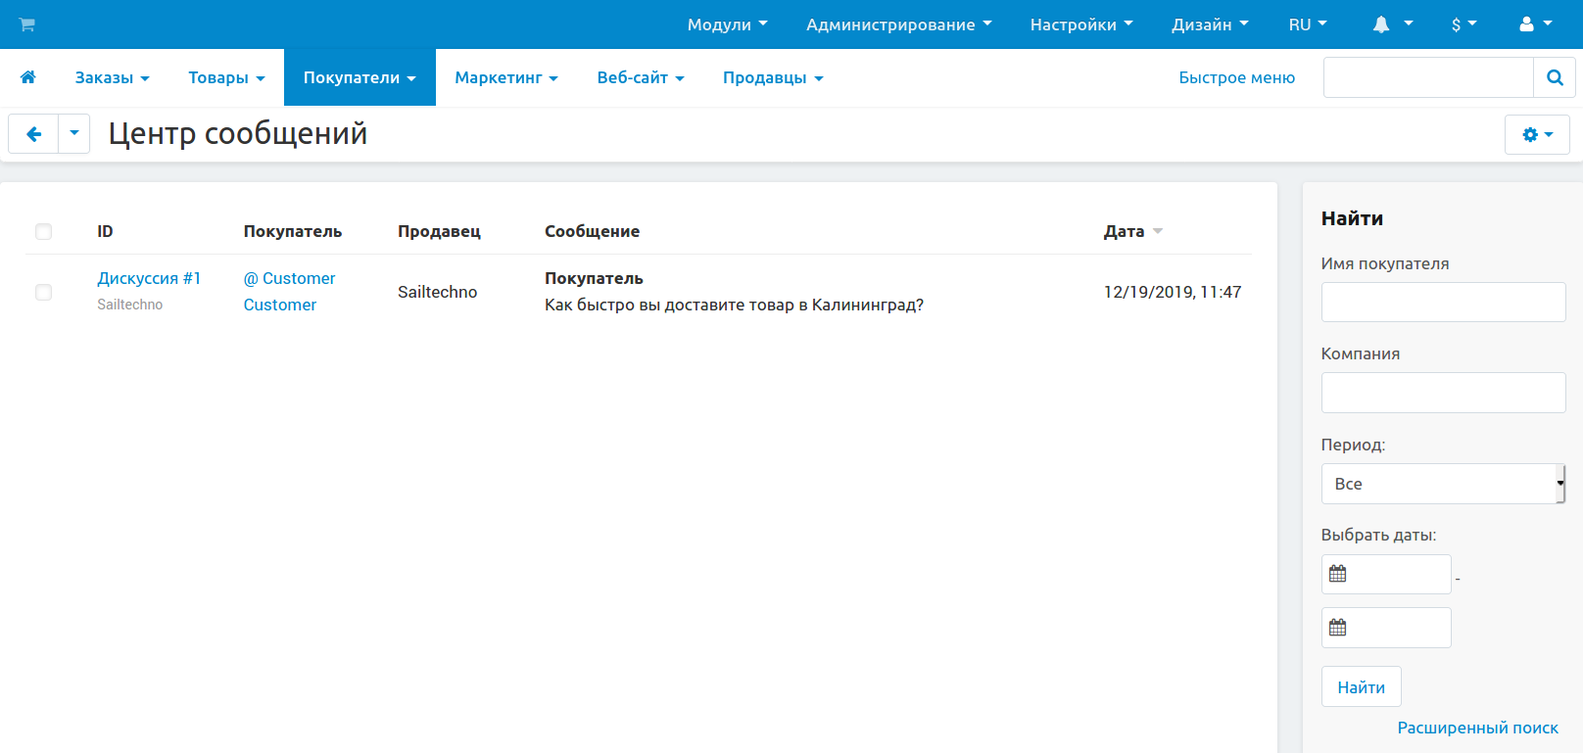
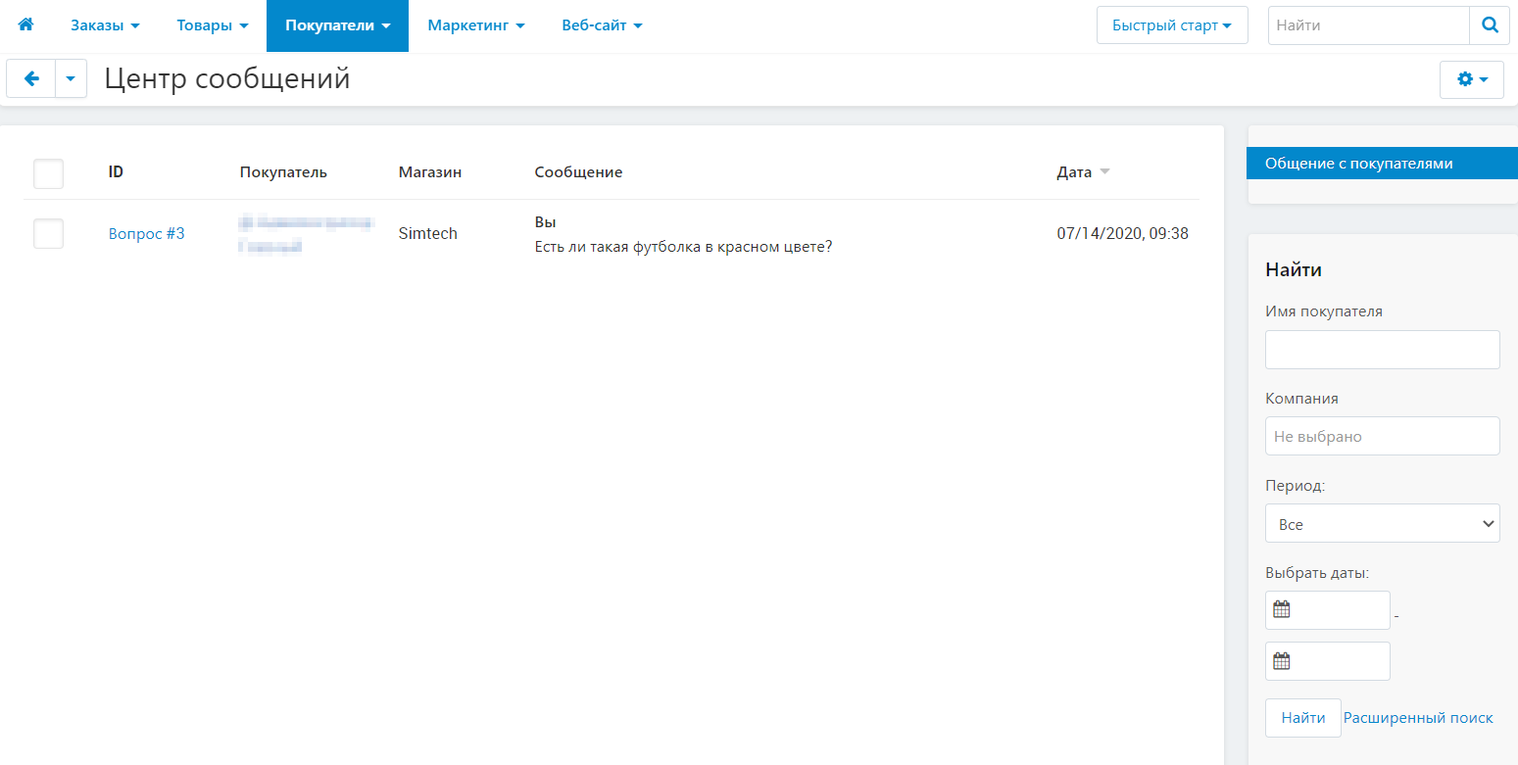
Message center ru

diff --git a/ru/user_guide/addons/customer_to_vendor_communication/set_up_communication.rst b/ru/user_guide/addons/customer_to_vendor_communication/set_up_communication.rst
@@ -1,27 +1,98 @@
-*******************************************************
-Как дать покупателям возможность задать вопрос о товаре
-*******************************************************
+**************************************
+Как настроить модуль “Центр сообщений”
+**************************************
 
-#. Убедитесь,что модуль **"Чат с продавцом"** :doc:`установлен и включен. </user_guide/addons/1manage_addons>`
+.. contents::
+    :local:
 
-   .. fancybox:: img/install_ask_seller_a_question.png
-       :alt: Найдите и установите модуль "Чат с продавцом".
+Основные настройки модуля
+=========================
+
+#. Установите модуль :doc:`/user_guide/addons/customer_to_vendor_communication` так же, :doc:`как и любой другой модуль </user_guide/addons/1manage_addons>`.
 
 #. Нажмите на название модуля, чтобы открыть его настройки:
+   * **Общие**:
 
-   * **Отображать кнопку чата на странице товара** — если включить эту настройку, то кнопка "Задать вопрос" появится на страницах товаров. В CS-Cart сообщения будут отправляться администраторам, а в CS-Cart для маркетплейсов — продавцам.
+     * **Общение покупателей с продавцами** — поставьте галочку, если хотите дать продавцам возможность напрямую общаться со своими покупателями.
+	 
+     * **Общение продавцов с администраторами**— поставьте галочку, если хотите дать продавцам возможность связываться с вами.
+	 
+   * **Для покупателей**:
 
-   * **Отображать кнопку чата в меню "Сообщения"** (*только в CS-Cart*) — если включить эту настройку, то кнопка "Задать вопрос" появится на странице **Мой профиль → Сообщения** на витрине.
+     * **Отображать кнопку чата на странице товара** — поставьте галочку, если хотите, чтобы клиенты могли отправлять вам сообщения со страниц товаров.
+	 
+     * **Отображать кнопку чата на странице микромагазина продавца** — если включить эту настройку, то кнопка “Задать вопрос” появится на странице микромагазина продавца.
+	 
+     .. important::
+	 
+	     Эта настройка влияет только на продавцов, у которых микромагазин включен в :doc:`тарифном плане </users/vendors/manage_vendor_plans.html>`.
+		 
+Как ограничить общение продавцов с покупателями и администратором?
+==================================================================
 
-   * **Отображать кнопку чата на странице микромагазина продавца** (*только в CS-Cart для маркетплейсов*) — если включить эту настройку, то кнопка "Задать вопрос" появится на странице микромагазина продавца.
+Использование модуля "Центр сообщений" в сочетании с модулем :doc:`/user_guide/addons/vendor_privileges` позволяет владельцу маркетплейса решить, кому, как и с кем общаться.
 
-     .. note::
+.. important::
 
-         Эта настройка влияет только на продавцов, у которых микромагазин включен в :doc:`тарифном плане </user_guide/users/vendors/manage_vendor_plans>`.
+    Модуль "Привилегии продавцов" доступен только для пользователей Multi-Vendor Plus и Multi-Vendor Ultimate.
+	
+Как сделать так, чтобы с покупателями общались только вы?
+---------------------------------------------------------
 
-#. Когда вы настроите модуль, нажмите "Сохранить". После этого вы увидите кнопки "Задать вопрос" на тех страницах, которые вы указали в настройках модуля.
+Предположим, вы хотите, чтобы ваши продавцы могли только просматривать сообщения от покупателей, но отвечать им могли только вы. Чтобы это сделать:
 
-   .. fancybox:: img/ask_a_question.png
-       :alt: Кнопка "Задать вопрос" на витрине.
+#. Откройте страницу **Покупатели → Группы пользователей**.
 
-#. (опционально) В меню **Администрирование → Уведомления** укажите, кто и какие уведомления будет получать.
+#. Щелкните на название группы пользователей **Продавец**.
+
+#. В разделе **Администрирование** напротив поля **Центр сообщений: общение покупателей с продавцами** выберите **Только просмотр**. Если вы выберете вариант **Нет доступа**, то продавцы не смогут даже просматривать сообщения от покупателей.
+
+#. Нажмите **Сохранить**.
+
+   .. fancebox:: img/vendor_priviledges_customers.png
+       :alt: Ограничение продавцам доступа к переписке с покупателями
+
+Как сделать так, чтобы продавцы не могли вам отвечать?
+------------------------------------------------------
+
+Если вы хотите использовать модуль “Центр сообщений” исключительно, как инструмент для анонсов, но не хотите, чтобы продавцы могли отвечать на ваши сообщения:
+
+#. Откройте страницу **Покупатели → Группы пользователей**.
+
+#. Щелкните на название группы пользователей **Продавец**.
+
+#. В разделе **Администрирование** напротив поля **Центр сообщений: общение с администратором** выберите **Только просмотр**. Если вы выберете вариант **Нет доступа**, то продавцы перестанут видеть ваши сообщения.
+
+#. Нажмите **Сохранить**.
+
+   .. fancybox:: img/vendor_priviledges_administration.png
+       :alt: Ограничение продавцам доступа к переписке с администратором
+
+Как установить ограничения для конкретных продавцов?
+----------------------------------------------------
+
+Допустим, вы хотите отключить возможность отвечать на сообщения или вовсе запретить их просмотр не для всех продавцов, а только для конкретных продавцов:
+
+#. Откройте страницу **Покупатели → Группы пользователей**.
+
+#. Создайте новую группу и установите ее тип.
+
+   .. fancybox:: img/add_group.png
+       :alt: Добавление новой группы пользователей
+
+#. В настройках группы напротив полей **Центр сообщений: общение покупателей с продавцами** и **Центр сообщений: общение с администратором** установите необходимые вам настройки.
+
+#. Откройте страницу **Продавцы → Продавцы**.
+
+#. Выберите конкретного продавца, которому хотите установить ограничения, и щелкните по его имени.
+
+#. Откроются настройки продавца. В **Меню** справа выберите **Просмотреть пользователей продавца**.
+
+#. В открывшемся окне нажмите на имя пользователя, затем перейдите на вкладку **Группы пользователей**.
+
+#. Включите только ту группу, в которой планируете установить ограничения.
+
+#. Нажмите **Сохранить изменения**.
+
+   .. fancybox:: img/choose_group.png
+       :alt: Выбор группы пользователей для пользователей продавца

diff --git a/ru/user_guide/addons/customer_to_vendor_communication/index.rst b/ru/user_guide/addons/customer_to_vendor_communication/index.rst
@@ -1,23 +1,47 @@
-***************
-Чат с продавцом
-***************
+*****************
+“Центр сообщений”
+*****************
 
-Модуль **"Чат с продавцом"** позволяет покупателю  прямо с витрины отправить сообщение администраторам (в CS-Cart) или администраторам продавца (в CS-Cart для маркетплейсов).
+Модуль “Центр сообщений” поможет наладить общение между участниками продаж в CS-Cart. Это необходимое решение, если вы хотите дать покупателям возможность:
 
-* Покупатель входит в учётную запись и начинает общение, нажав на кнопку "Задать вопрос".
+* задать вопрос о товаре;
 
-* Администраторы видят сообщение в панели администратора и могут ответить на него. Ответ сохраняется вместе с сообщением в одной цепочке.
+* общаться с вами или с вашими продавцами (если у вас маркетплейс). 
 
-* В зависимости от настроек в меню **Администрирование → Уведомления**, покупатели, администраторы и продавцы получают уведомления о новых сообщениях.
+Также модуль поможет наладить общение администрации с продавцами на маркетплейсе.
 
-  .. note::
+.. contents::
+    :local:
 
-      Уведомления по email будут отправляться, только если вы используете :doc:`новые шаблоны email-уведомлений </user_guide/look_and_feel/email_templates/enable_email_editor>`.
+Общение с покупателями
+======================
 
-* Покупатель может войти в учётную запись, увидеть на витрине историю сообщений и продолжить общение.
+Модуль “Центр сообщений” предоставляет продавцам и владельцам маркетплейсов возможность своевременно реагировать на запросы покупателей. на странице **Покупатели → Центр сообщений** продавцы или владелец маркетплейса могут:
+
+* просматривать сообщения покупателей;
+
+* отвечать на сообщения, в том числе, на вопросы покупателей по конкретным товарам. Ссылка на товар, со страницы которого был отправлен вопрос, прикрепляется в нижней части диалога. Это позволяет продавцу сразу перейти на страницу с товаром, чтобы быстрее решить проблему клиента или ответить на его вопрос.
 
   .. fancybox:: img/ask_a_question.png
-      :alt: Кнопка на витрине, чтобы покупатель мог задать вопрос о товаре.
+      :alt: Ссылка на товар, со страницы которого было отправлено сообщение, в переписке между покупателем и продавцом.
+
+Модуль предоставляет возможность покупателям:
+
+* задать вопрос прямо с витрины со страницы любого товара через  кнопку **Задать вопрос**.
+
+* просматривать и отвечать на сообщения на странице своего профиля в разделе **Сообщения**.
+
+Общение продавцов с администраторами
+====================================
+
+"Центр сообщений" позволяет продавцам и владельцам маркетплейса общаться друг с другом на странице **Продавцы → Центр сообщений**. Это полезно, если:
+
+* у продавца возникает какой-нибудь вопрос к администрации;
+
+* у администратора есть замечания или предложения по поводу оформления товара в магазине продавца, и он хочет указать ему на то, что нужно поправить;
+
+* владелец маркетплейса хочет сообщить продавцам какую-нибудь важную новость
+
 
 ================
 Связанные статьи

diff --git a/ru/user_guide/users/message_center/how_to_communicate_with_admin.rst b/ru/user_guide/users/message_center/how_to_communicate_with_admin.rst
@@ -1,0 +1,59 @@
+****************************************
+Как продавцам общаться с администратором
+****************************************
+	
+Модуль :doc:`/user_guide/addons/customer_to_vendor_communication` позволяет продавцам и владельцам маркетплейса общаться друг с другом на странице **Продавцы → Центр сообщений**. Это полезно, если:
+
+* у продавца возникает какой-нибудь вопрос к администрации;
+
+* у администратора есть замечания или предложения по поводу оформления товара в магазине продавца, и он хочет указать ему на то, что нужно поправить;
+
+* владелец маркетплейса хочет сообщить продавцам какую-нибудь важную новость.
+
+Как продавцу связаться с владельцем маркетплейса?
+=================================================
+
+Модуль “Центр сообщений” позволяет продавцам связаться с владельцем маркетплейса:
+
+* со страницы любого товара в магазине;
+
+* со страницы любого заказа;
+
+* со страницы пресета импорта товаров.
+
+Чтобы отправить администратору сообщение, нужно нажать шестеренку в правом верхнем углу экрана и выбрать **Связаться с администратором**.
+
+.. fancybox:: img/contact_admin.png
+    :alt: Кнопка Связаться с администратором на странице товара
+	
+Как администратору написать продавцу?
+=====================================
+
+Предположим, вы хотите связаться с конкретным продавцом. Чтобы это сделать:
+
+#. Перейдите на страницу **Продавцы → Центр сообщений**.
+
+#. Нажмите кнопку **+**, чтобы связаться с продавцом.
+
+#. Введите тему сообщения в поле **Тема**, а в поле **Продавец** выберите нужного продавца.
+
+#. Введите ваше сообщение и нажмите кнопку **Отправить**.
+
+   .. fancybox:: img/message_to_vendor.png
+       :alt: Отправка сообщения продавцу
+
+Как сделать массовую рассылку?
+==============================
+
+Если вы хотите отправить сообщение сразу нескольким продавцам, например, рассказать им о новых модулях и возможностях, которые вы добавили в их магазины, то сделать это достаточно просто:
+
+#. Создайте новое сообщение, как описано выше.
+
+#. Введите **Тему** и текст сообщения.
+
+#. Выберите нескольких продавцов из списка. Если вы хотите отправить сообщение сразу всем продавцам на вашем маркетплейсе, поставьте галочку напротив поля **Все**.
+
+#. Нажмите **Отправить**.
+
+Модуль отправит ваше сообщение каждому продавцу по отдельности. Вы можете просмотреть все диалоги с продавцами, а также ответить на их сообщения на странице **Продавцы → Центр сообщений**.
+

diff --git a/ru/user_guide/users/message_center/index.rst b/ru/user_guide/users/message_center/index.rst
@@ -4,7 +4,7 @@
 
 .. important::
 
-    Эта функциональность — часть модуля :doc:`"Чат с продавцом" </user_guide/addons/customer_to_vendor_communication/index>`.
+    Эта функциональность — часть модуля :doc:`/user_guide/addons/customer_to_vendor_communication`.
 
 Когда покупатель нажимает на кнопку "Задать вопрос", то этот вопрос и вся переписка по этой теме между продавцом (администратором) и покупателем сохраняется в базе данных.
 
